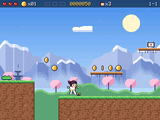
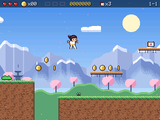
Pixel Peaks: a stronger jump, and every coin within reach
The coins above the lucky boxes in Blossom Hills, Bamboo Grove and
Misty Peaks were out of reach: the boxes floated 4 tiles up, too high
to stand on. The plank bridges 3 tiles up only cleared with about 7 px
to spare on a full held jump.

- The jump now rises ~4.3 tiles instead of ~3.45 (vy 6.3 -> 7.0, stomp
  bounce scaled to match), so 3-tile climbs have a 20 px margin.
- Lucky boxes that hold coins above them sit 3 rows above the ground,
  so she can bump them and hop on top.
- make_levels.py's check now covers every coin, lucky box and plank as
  well as the scrolls and goal, with the corrected head-height limit,
  and allows collecting by dropping off a ledge.

A simulator run confirms she lands on the plank bridge and collects
the coins above the boxes. The look-ahead bot still finishes all
three levels.

Claude-Session: https://claude.ai/code/session_0152ymMnLJ59268Fu4qk1EfL

diff --git a/games/PixelPeaks/levels.h b/games/PixelPeaks/levels.h
@@ -11,8 +11,8 @@ static const char* const LEVEL0_ROWS[15] = {
   ".......................................................S.................................................................c.........===..............................................",
   "..............ooo.....................................===..c..................................ooo...................................................................................",
   "..........................................o................................................................oooo.....................................................................",
-  "..............?!?........................o.o....oooo...........................................?...............................===..............o.....S.............................",
-  ".....................................u..........====.............................oooo.................X..................t.....................o.o....XX............................",
+  ".........................................o.o....oooo...........................................................................===..............o.....S.............................",
+  "..............?!?....................u..........====.............................oooo..........?......X..................t.....................o.o....XX............................",
   "..................................#######............................................................XX..M............#######.........................XX............................",
   ".u.P...t....l.....v....b..v..############.....v..............b...C...v..t....k.........r..^^......b.XXXb..........u...#######...C.......b...k.........XX...b..v.l.....G......l..t...",
   "#########################################...#####################################....####################......################################...##################################",
@@ -28,8 +28,8 @@ static const char* const LEVEL1_ROWS[15] = {
   "..................................................................................c.....................................ooo.....................c...................................................",
   "..................oo..............................===..........................................................c........====........................................................................",
   "........................................................................................................................................................oooo........................................",
-  "..................??.........................####...........ooooo.........!?......................ooooooo....................====..................................S................................",
-  "................................ooo..........####........................................oooo....########..........====............................................XX...............................",
+  ".............................................####...........ooooo.........!?......................ooooooo....................====..................................S................................",
+  "..................??............ooo..........####........................................oooo....########..........====............................................XX...............................",
   "................................===.......#######..........M.....................................########..............................................M...........XX...............................",
   "...P..t....u....l.....t...b.............k.#######...b...b..........C....t.....k.t...b........############...b....k....................C....t..b...t.b...........k..XX...b..k...u...l..G......t..l...",
   "###############################.....#######################.......#######################....##########################.............###################......#######################################",
@@ -45,8 +45,8 @@ static const char* const LEVEL2_ROWS[15] = {
   "....................................................................oooo.............c..............................................................S.................c...........................................",
   "...........ooo..................................................................................................oooo.......................c.......===............................................................",
   "..................................^^^....b.......................o................................oo............XXXX..............................................................................................",
-  "............?....................############.................o..X.M........ooo.........!........o..o...........XXXX..........................................................S...oo..............................",
-  "..............................k..############oooo.............X..X..........................................XXXXXXXX...........................===.....oooo...................XX.o..o.............................",
+  ".................................############.................o..X.M........ooo.........!........o..o...........XXXX..........................................................S...oo..............................",
+  "............?.................k..############oooo.............X..X..........................................XXXXXXXX...........................===.....oooo...................XX.o..o.............................",
   "...........................##################..............X..X..X..........................................XXXXXXXX..........................................................XX..................................",
   "...P...t.....l..b..r....t..##################......C....t..X..X..X..........^^^...k...b...k...t........C....XXXXXXXX...b..k..M.........^^.b..^^...k..........C..b.t..k..b.t...XX........k...b....l..G......t..l...",
   "#############################################~~~~##################......########################....########################.......###################....######################....#############################",

diff --git a/games/PixelPeaks/tools/make_levels.py b/games/PixelPeaks/tools/make_levels.py
@@ -11,7 +11,9 @@ Map characters (15 rows, 16 px tiles, row 14 is the bottom of the screen):
   P  start          C  checkpoint lantern      G  goal gate
   t  tree (per world)  l  stone lantern  u  bush  v  flowers  r  rock      (scenery)
 
-Reach: a jump clears 4 tiles across and 3 tiles up, so gaps stay <= 4 and steps <= 3."""
+Reach: a full jump rises 68 px (4.3 tiles) and carries 5.6 tiles. Levels keep a margin: climbs of at
+most 3 tiles, gaps of at most 4, and nothing to collect more than 4 rows above where she can stand.
+check_reach() enforces this for every coin, scroll, lucky box, plank and the goal."""
 import os
 
 ROWS = 15
@@ -73,14 +75,27 @@ class Lvl:
                 # a jump carries her ~5 columns between standing spots on the level, 4 when climbing 2-3 tiles
                 if (up <= 1 and dx <= 5) or (2 <= up <= 3 and dx <= 4) or (up < 0 and dx <= 5 + (-up) // 2):
                     seen.add((x2, y2)); todo.append((x2, y2))
+        def show(x):   # the neighbourhood, with the places she can reach marked '*'
+            for yy in range(ROWS):
+                print("".join("*" if (xx, yy) in seen else cell(xx, yy) for xx in range(max(0, x - 20), min(self.w, x + 12))))
+        problems = []
         for y in range(ROWS):
             for x in range(self.w):
-                if g[y][x] in "SG":
-                    ok = any(abs(x - sx) <= 3 and 0 <= sy - y <= 4 for (sx, sy) in seen)
-                    if not ok:   # show the neighbourhood, with the places she can reach marked '*'
-                        for yy in range(ROWS):
-                            print("".join("*" if (xx, yy) in seen else cell(xx, yy) for xx in range(max(0, x - 20), min(self.w, x + 12))))
-                    assert ok, "%s: %s at column %d row %d can't be reached" % (self.name, g[y][x], x, y)
+                ch = g[y][x]
+                if ch in "oSG":            # touch it: up to 4 rows above a standing spot, or drop onto it from one
+                    ok = any(abs(x - sx) <= 3 and -6 <= sy - y <= 4 for (sx, sy) in seen)
+                elif ch in "?!":           # bump it from below
+                    ok = any(abs(x - sx) <= 1 and 1 <= sy - y <= 4 for (sx, sy) in seen)
+                elif ch == "=" and (x == 0 or g[y][x - 1] != "="):   # every plank run must be reachable
+                    run = range(x, next((xx for xx in range(x, self.w) if g[y][xx] != "="), self.w))
+                    ok = any((xx, y - 1) in seen for xx in run)
+                else:
+                    continue
+                if not ok: problems.append((ch, x, y))
+        for ch, x, y in problems:
+            show(x)
+            print("%s: %s at column %d row %d can't be reached" % (self.name, ch, x, y))
+        assert not problems, "%s: %d unreachable things" % (self.name, len(problems))
 
 # ---------------------------------------------------------------- 1: BLOSSOM HILLS (a gentle start)
 def blossom():
@@ -88,7 +103,7 @@ def blossom():
     L.ground(0, 40)
     L.put(3, 11, "P")
     for x, ch in ((1, "u"), (7, "t"), (12, "l"), (18, "v"), (26, "v")): L.on(x, ch)
-    L.put(14, 8, "?"); L.put(15, 8, "!"); L.put(16, 8, "?")
+    L.put(14, 9, "?"); L.put(15, 9, "!"); L.put(16, 9, "?")   # hop up on the boxes for the coins
     L.coins(14, 16, 6)
     L.on(23, "b")
     L.ground(29, 40, 11); L.ground(34, 40, 10)
@@ -105,7 +120,7 @@ def blossom():
     L.fill(81, 84, 13, 14, "~")
     L.ground(85, 104)
     L.put(90, 11, "^"); L.put(91, 11, "^")
-    L.put(95, 8, "?"); L.coins(94, 96, 6)
+    L.put(95, 9, "?"); L.coins(94, 96, 6)
     L.on(98, "b"); L.on(103, "b"); L.on(87, "r")
     L.fill(100, 100, 11, 11, "X"); L.fill(101, 101, 10, 11, "X"); L.fill(102, 102, 9, 11, "X")
     L.put(105, 10, "M"); L.coins(107, 110, 7)        # first moving plank over a wide gap
@@ -127,7 +142,7 @@ def bamboo():
     L.ground(0, 30)
     L.put(3, 11, "P")
     for x, ch in ((6, "t"), (11, "u"), (16, "l"), (22, "t")): L.on(x, ch)
-    L.put(18, 8, "?"); L.put(19, 8, "?"); L.coins(18, 19, 6)
+    L.put(18, 9, "?"); L.put(19, 9, "?"); L.coins(18, 19, 6)
     L.on(26, "b")
     L.fill(31, 35, 13, 14, "~"); L.row(32, 34, 10, "="); L.coins(32, 34, 9)
     L.ground(36, 58); L.ground(42, 48, 10); L.ground(45, 48, 8)
@@ -161,7 +176,7 @@ def peaks():
     L.ground(0, 26)
     L.put(3, 11, "P")
     for x, ch in ((7, "t"), (13, "l"), (19, "r"), (24, "t")): L.on(x, ch)
-    L.on(16, "b"); L.put(12, 8, "?"); L.coins(11, 13, 6)
+    L.on(16, "b"); L.put(12, 9, "?"); L.coins(11, 13, 6)
     L.ground(27, 44, 10); L.ground(33, 44, 8)
     L.on(30, "k"); L.put(38, 4, "c"); L.on(41, "b")
     L.row(34, 36, 7, "^")

diff --git a/games/PixelPeaks/game.h b/games/PixelPeaks/game.h
@@ -339,7 +339,7 @@ static void updateHero(const Pad& in) {
     if (h.rollT && boxSolid(h.x, h.y - (HH - RH), HW, HH)) { /* no room to jump out of a roll here */ }
     else {
       if (h.rollT) { h.y -= HH - RH; h.rollT = 0; h.rollCd = 14; }
-      h.vy = -6.3f; h.onGround = false; h.coyote = 0; h.jumpBuf = 0; h.riding = nullptr;
+      h.vy = -7.0f; h.onGround = false;   // rises ~4.3 tiles: 3-tile climbs with room to spare h.coyote = 0; h.jumpBuf = 0; h.riding = nullptr;
       audio::play(SFX_JUMP);
       dust(h.x + HW / 2, h.y + HH, 4);
     }
@@ -479,7 +479,7 @@ static void updateEnemies() {
       shake = max(shake, 2.0f);
     } else if (hero.vy > 0.5f && hero.y + hh - e.y < 10 && e.type != E_CHESTNUT) {   // stomp
       if (e.type == E_MOCHI) { e.state = 1; e.t = 0; } else { e.state = 2; e.vy = -2; e.vx = 0; e.t = 0; }
-      hero.vy = input::pad.down(BTN_A) ? -6.6f : -4.4f;
+      hero.vy = input::pad.down(BTN_A) ? -7.2f : -4.8f;
       addScore(100); popupNum((int)cx - 8, (int)e.y - 10, 100);
       audio::play(SFX_STOMP); burst(cx, e.y, 8, rgbS(246, 242, 236), 1.4f);
     } else {

diff --git a/CLAUDE.md b/CLAUDE.md
@@ -62,7 +62,7 @@ The ESP32-S3 has **Bluetooth LE only**. Pads that use Classic Bluetooth, includi
 - `Wire.h` must be included before LovyanGFX. `ArcadeCore.h` does this so arduino-cli's library detection picks up Wire.
 - Keep DMA strip buffers in internal RAM (`setPsram(false)`). Launcher thumbnails use PSRAM sprites.
 - Art is generated by Python scripts. Edit the script, then regenerate the header: `games/NovaLance/tools/make_assets.py`, `tools/art/logos.py`, `tools/art/alientide_art.py`, `Launcher/tools/make_assets.py`, `games/PixelPeaks/tools/make_art.py`.
-- Pixel Peaks keeps its levels in `games/PixelPeaks/tools/make_levels.py`, which writes `levels.h`. Its `check_reach()` refuses to build a level whose scrolls or goal can't be reached with her jump: 5 tiles across on the level, 4 when climbing 2-3 tiles, and at most 3 tiles up. `tools/sim/sim_pixelpeaks.cpp` runs a look-ahead bot that must finish all three levels (enemy damage off, pits and water on). Run both after editing a level.
+- Pixel Peaks keeps its levels in `games/PixelPeaks/tools/make_levels.py`, which writes `levels.h`. Its `check_reach()` refuses to build a level with any coin, scroll, lucky box, plank or goal she can't reach. A full jump rises 68 px (4.3 tiles) and carries 5.6 tiles, and the checker keeps a margin: climbs of at most 3 tiles, and items at most 4 rows above where she can stand (or below, by dropping off a ledge). Coins once sat above lucky boxes that were too high to stand on; keep boxes 3 rows above the ground. `tools/sim/sim_pixelpeaks.cpp` runs a look-ahead bot that must finish all three levels (enemy damage off, pits and water on). Run both after editing a level.
 - Pixel Peaks' art (`make_art.py`) is drawn in code with a 62-colour palette; the engine's sprite palette holds 64. The hero is a posed rig (hand-drawn head, limbs placed per frame, automatic outline, "selout" edges where front limbs cross the body). Parallax layers store shade numbers 1-7, coloured per world from `WORLDS` at run time. Ground tiles have 16 edge variants chosen by `autotile()` when a level loads.
 - All game art and music must stay original: no copied sprites, logos or tunes from commercial games.
 
